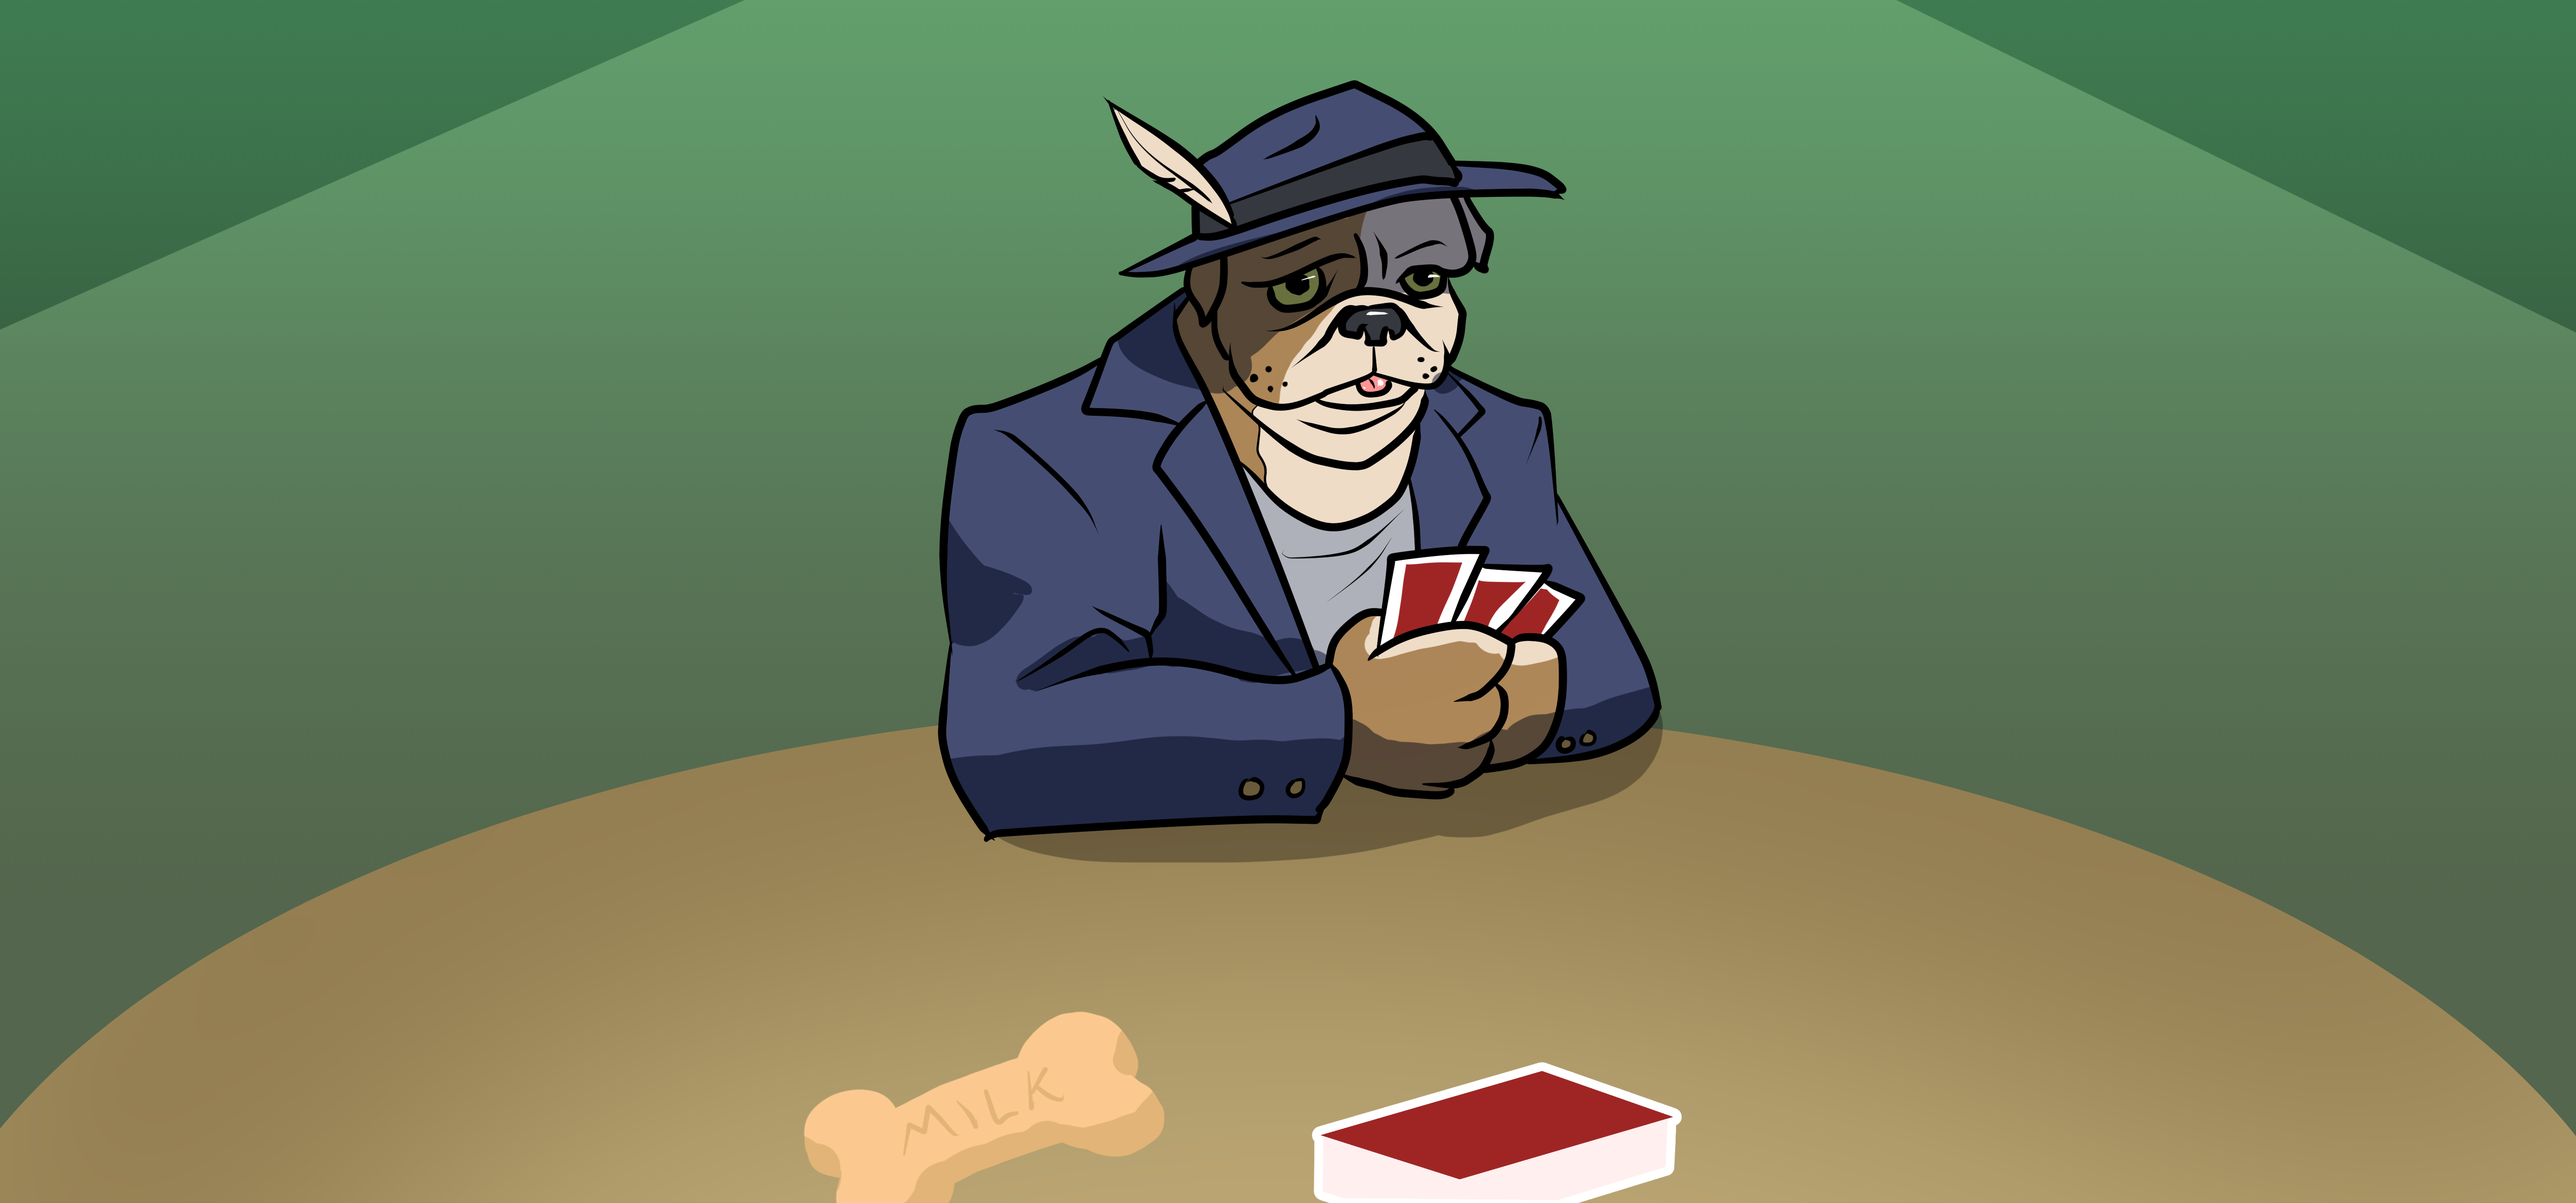
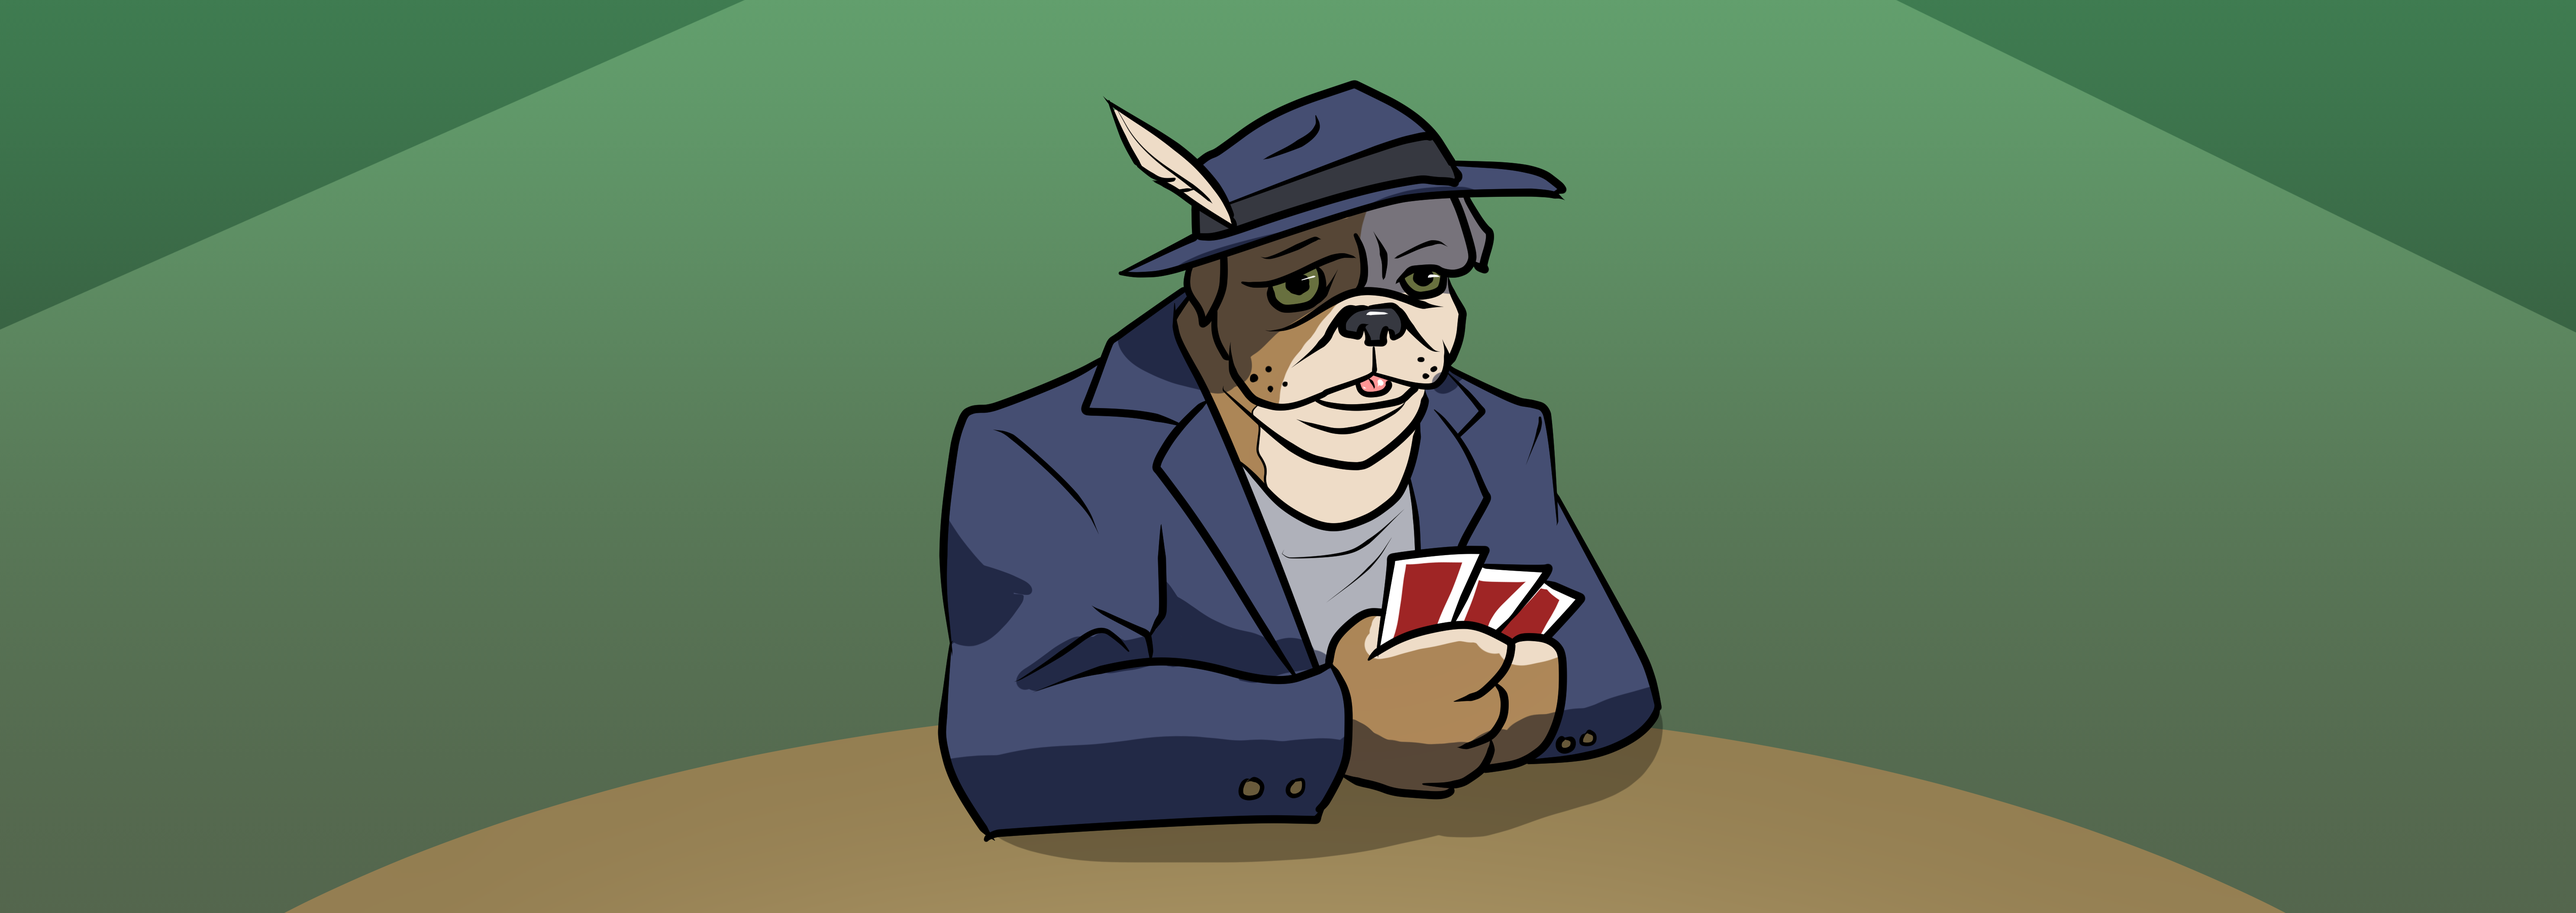
cropped opponent images and added growth limits

diff --git a/src/Components/OpponentImage.css b/src/Components/OpponentImage.css
@@ -6,6 +6,8 @@
     margin-top: 0px;
     margin-bottom: 0px;
     padding: 0px;
+    max-height: 430px;
+    max-width: 1230px;
 }
 
 @media screen and (max-height: 800px) {
